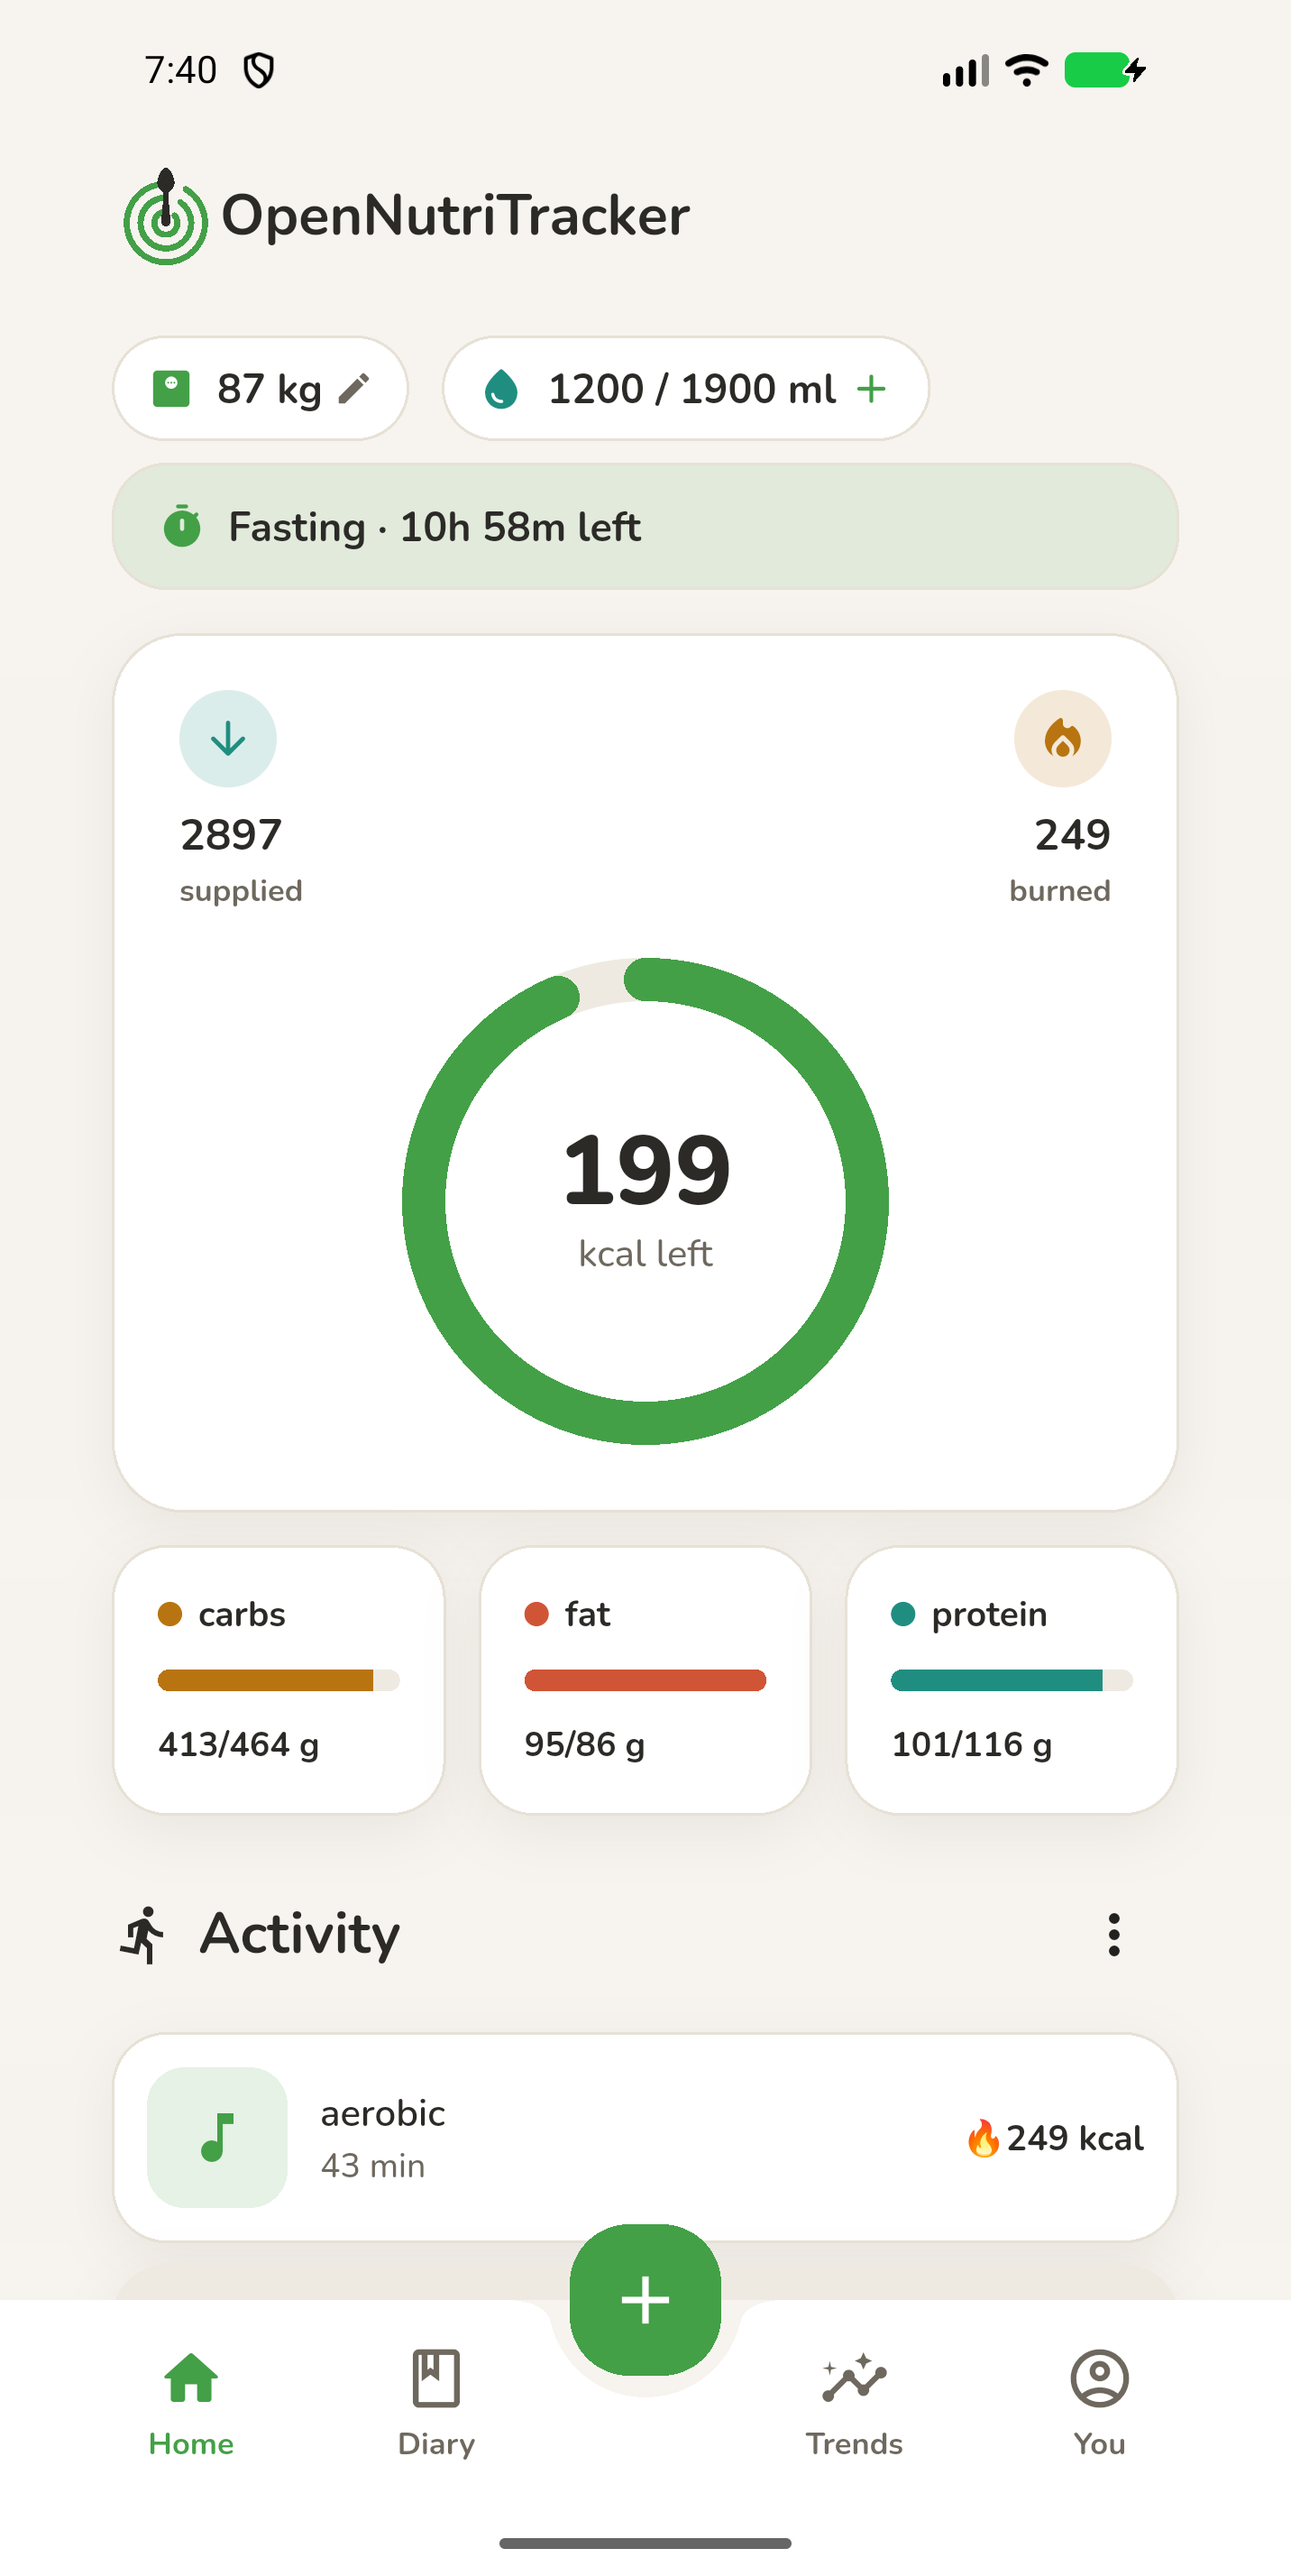
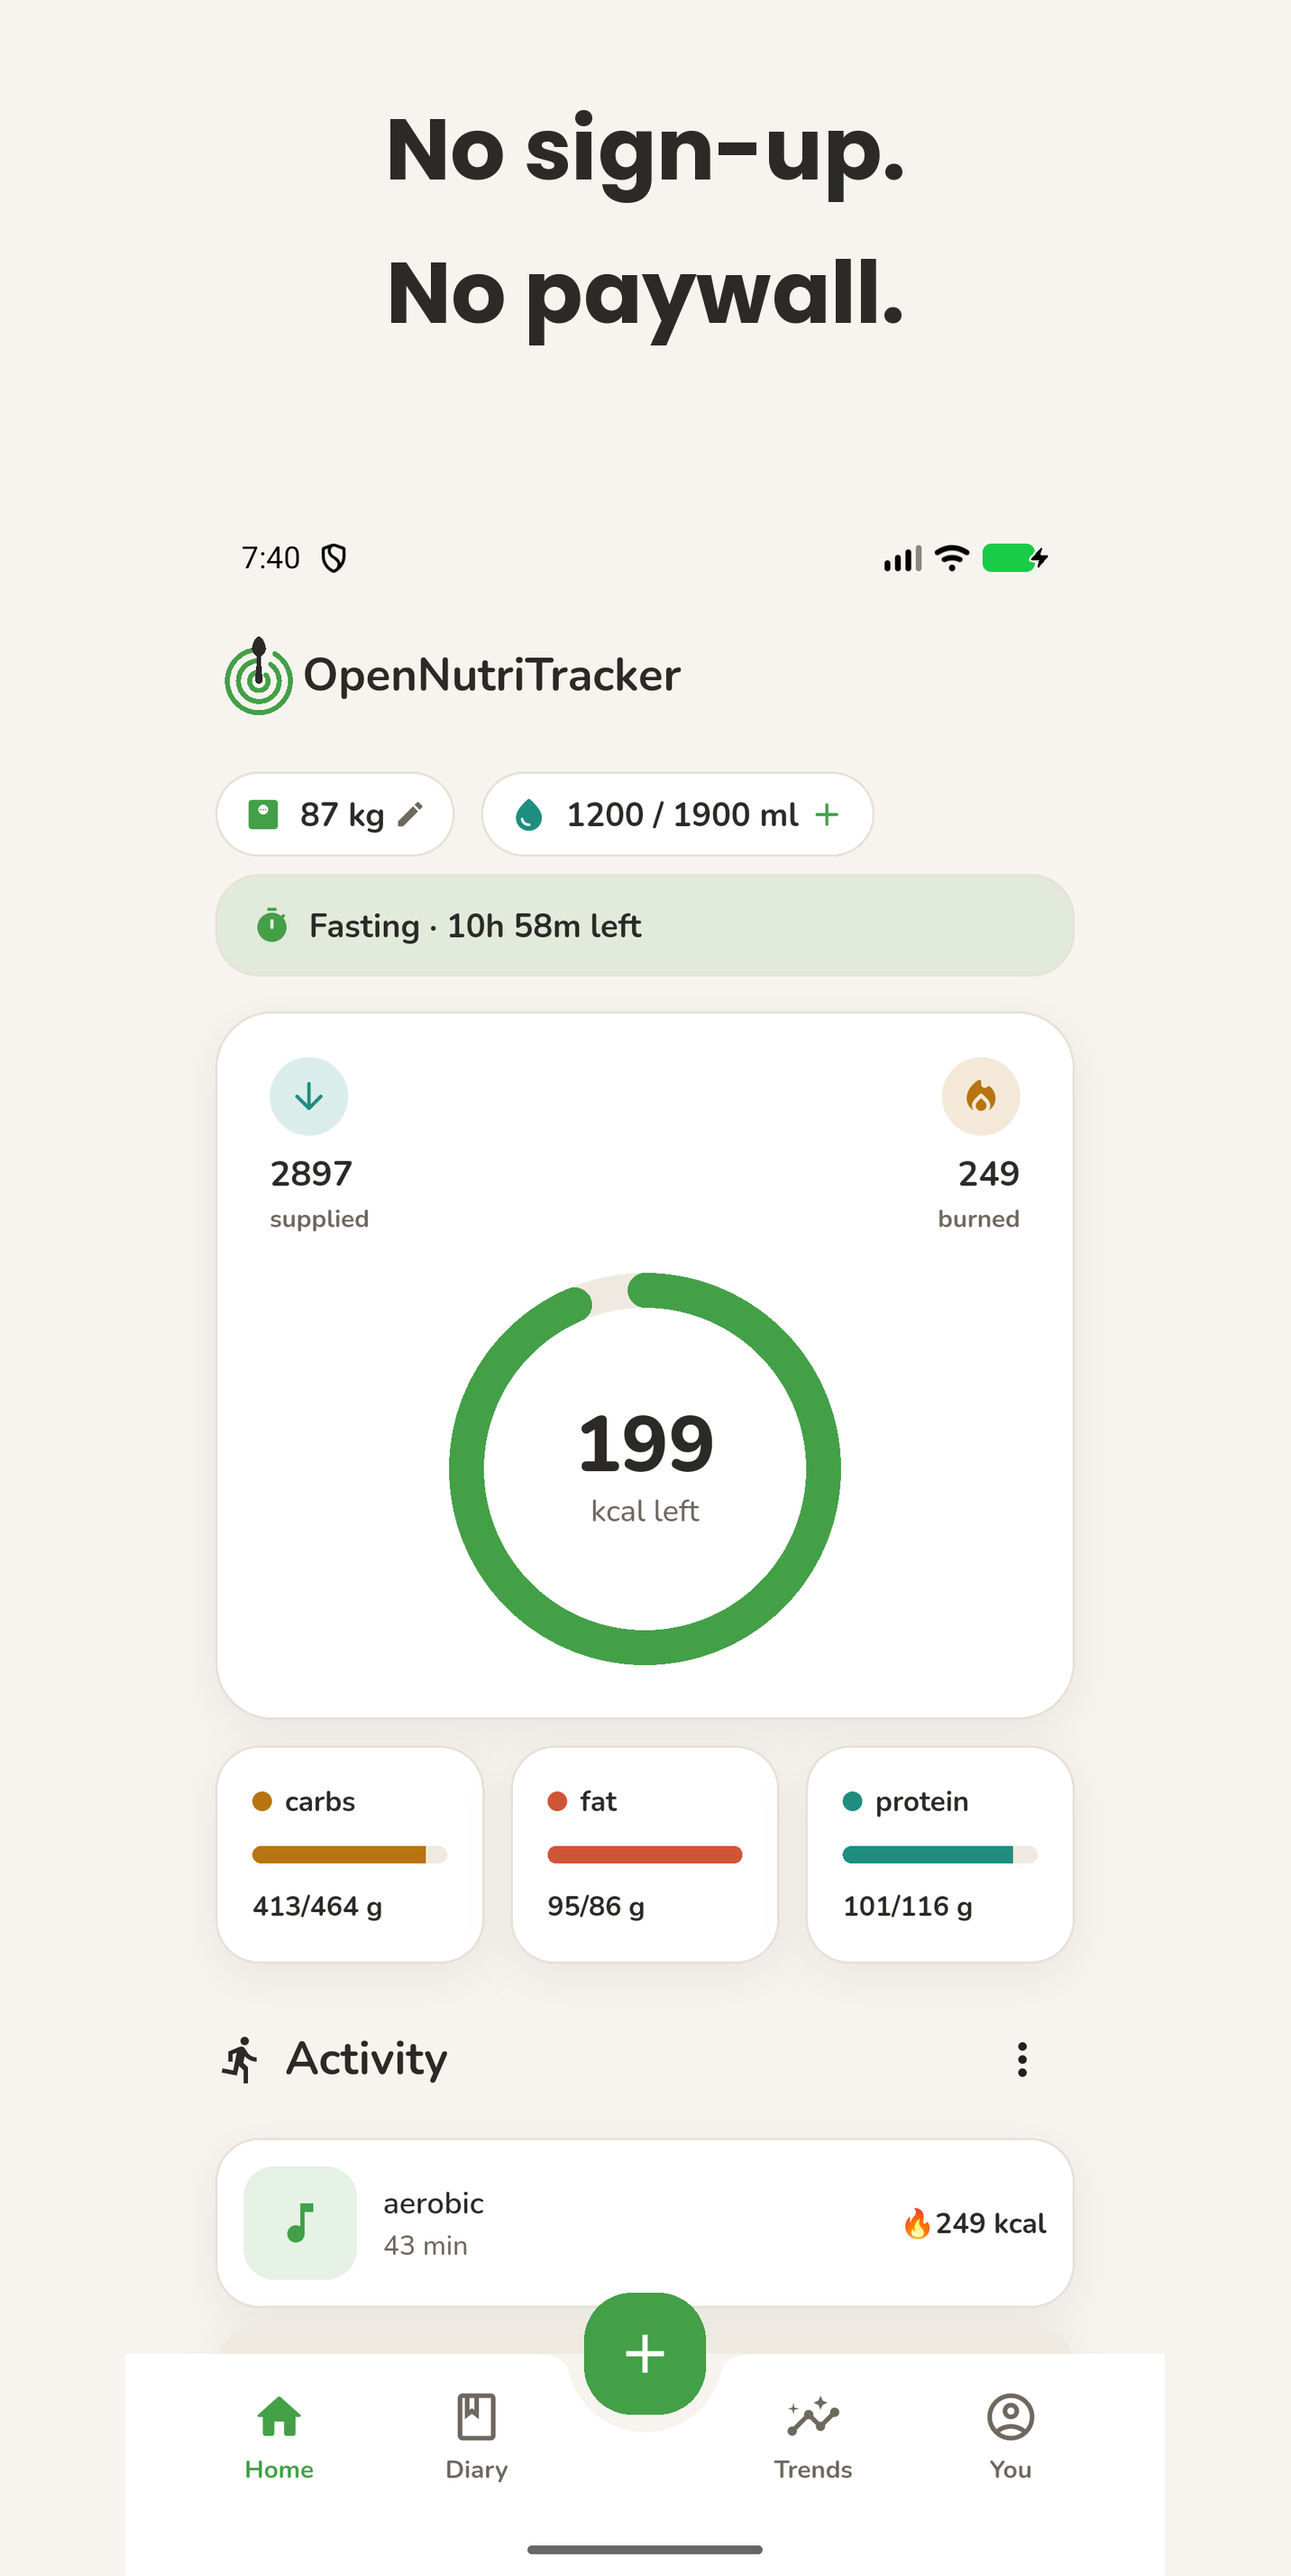
chore(store): caption the Play set, add the iOS screenshots, retire "Free forever" (#1120)
Retires the "Free forever. No account." hero caption, which restated the copy
rendered directly above the carousel on both stores and made an unfalsifiable
forward promise under Play's Misleading Claims policy. It is now
"No sign-up. No paywall.", and the App Store promotional text drops the same
phrase for claims that hold in the present tense.

Captions the Play phone set, which had been committed as raw captures — the
second pass described in compose.py's own docstring had never been run, so
#1072's decision was undone on Play. Same captures, no re-shoot.

Adds the App Store set: six at 1290x2796 and six at 2064x2752, captured with
`xcrun simctl io booted screenshot` because the CI lane still cannot get an
image off the simulator (#1076). Nine of twelve are final; the README records
the two owed re-shoots, the #1080 answer that a released version is read-only
so these need a build to ship, and the open question about the 6.9" slot.

Also, from review:

- rejects a too-wide word that arrives after a wrap (pre-existing)
- preserves the raw captures under tools/screenshots/raw/ and refuses to
  composite an output, or a directory onto itself — the in-place Play pass had
  left the raws reachable only through git history
- clears the committed sets before capture, so a single-device run cannot
  present the other device's committed set as its own output
- runs the Apple spec check on !cancelled(), so a partial run's assets are
[…]

diff --git a/tools/screenshots/compose.py b/tools/screenshots/compose.py
@@ -6,8 +6,14 @@ owned by either platform's lane:
 
   * the iOS lane feeds it fresh simulator captures at 1290x2796 (6.9" iPhone)
     and 2064x2752 (13" iPad);
-  * the Play set is already captured and committed at 1432x2856, so its
-    second pass is this script run over the existing PNGs — no re-shoot;
+  * the Play set is fed from tools/screenshots/raw/play at 1432x2856, so a
+    caption change is a re-render rather than a re-shoot;
+
+Inputs are always raw captures and outputs are always somewhere else. Pointing
+--raw at a directory this script has already written composites the caption a
+second time on top of the first and shrinks the app content again, and the
+result is a plausible-looking image rather than an error — so the marker below
+turns that mistake into a failure instead of a surprise.
   * Play's *tablet* slots stay empty by decision, and if that is ever
     revisited Play excludes non-core text there, which is what --no-captions
     is for.
@@ -32,10 +38,10 @@ Usage:
         --size  1290x2796 \\
         --captions tools/screenshots/captions.en-US.json
 
-    # Play's second pass, over the set already in the repo:
+    # Play, from the preserved captures:
     python3 tools/screenshots/compose.py \\
-        --raw fastlane/metadata/android/en-US/images/phoneScreenshots \\
-        --out build/screenshots/play-captioned \\
+        --raw tools/screenshots/raw/play \\
+        --out fastlane/metadata/android/en-US/images/phoneScreenshots \\
         --size 1432x2856 \\
         --captions tools/screenshots/captions.en-US.json
 
@@ -50,7 +56,7 @@ import pathlib
 import sys
 
 try:
-    from PIL import Image, ImageDraw, ImageFont
+    from PIL import Image, ImageDraw, ImageFont, PngImagePlugin
 except ImportError:  # pragma: no cover - the message is the whole point
     sys.exit(
         "Pillow is not installed. `python3 -m pip install --upgrade pillow`, "
@@ -58,6 +64,14 @@ except ImportError:  # pragma: no cover - the message is the whole point
     )
 
 REPO_ROOT = pathlib.Path(__file__).resolve().parents[2]
+
+# Stamped into every output and refused on every input. A PNG text chunk is
+# the right home for it: both stores ignore ancillary chunks, it survives a
+# copy, and it does not touch a single pixel — so it cannot change what the
+# reviewer sees. Detecting a caption band by inspecting pixels would be a
+# heuristic; this is not.
+MARKER_KEY = "Software"
+MARKER = "tools/screenshots/compose.py"
 
 
 def parse_size(text: str) -> tuple[int, int]:
@@ -83,24 +97,43 @@ def wrap_to_lines(
     max_width: int,
     max_lines: int,
 ) -> list[str] | None:
-    """Greedy word wrap. Returns None when the text will not fit."""
-    words = text.split()
+    """Greedy word wrap. Returns None when the text will not fit.
+
+    A literal newline in the caption is an author-chosen break and is always
+    taken. Blank segments are dropped rather than rendered: a stray trailing
+    newline, or a doubled one, would otherwise spend a line of a two-line
+    band on nothing. Greedy wrapping optimises for filling the line, which is the
+    wrong objective for a two-clause caption: "No sign-up. No paywall." fills
+    line one as "No sign-up. No", stranding the second clause's "No" at the
+    end of the line and leaving "paywall." alone underneath. The break the
+    reader wants is the sentence boundary, and nothing in the metrics can
+    infer that -- so the caption file states it.
+    """
     lines: list[str] = []
-    current = ""
-    for word in words:
-        candidate = f"{current} {word}".strip()
-        if draw.textlength(candidate, font=font) <= max_width:
-            current = candidate
+    for segment in text.split("\n"):
+        words = segment.split()
+        if not words:
             continue
-        if not current:
-            # A single word wider than the band: no wrapping can save it.
-            return None
-        lines.append(current)
-        current = word
-        if len(lines) == max_lines:
-            return None
-    if current:
-        lines.append(current)
+        current = ""
+        for word in words:
+            candidate = f"{current} {word}".strip()
+            if draw.textlength(candidate, font=font) <= max_width:
+                current = candidate
+                continue
+            # `word` is about to start a line of its own, so it has to fit
+            # on one by itself. Guarding only the `not current` case tested
+            # that for the first word of a segment and no other: a too-wide
+            # word arriving after a wrap was assigned to `current` and
+            # appended unchecked, overflowing the band.
+            if draw.textlength(word, font=font) > max_width:
+                # A single word wider than the band: no wrapping can save it.
+                return None
+            lines.append(current)
+            current = word
+            if len(lines) == max_lines:
+                return None
+        if current:
+            lines.append(current)
     if len(lines) > max_lines:
         return None
     return lines
@@ -184,6 +217,15 @@ def compose_one(
             y += line_height
 
     with Image.open(capture_path) as raw:
+        if raw.info.get(MARKER_KEY) == MARKER:
+            sys.exit(
+                f"{capture_path} was written by this script, so it already "
+                "carries a caption band.\nCompositing it again would stack a "
+                "second caption on the first and shrink the app content "
+                "further.\nPoint --raw at the original captures instead: "
+                "tools/screenshots/raw/ for the committed sets, or "
+                "build/screenshots/raw/ for a fresh run of the capture lane."
+            )
         capture = raw.convert("RGB")
         available_height = height - band_height - gap
         scale = min(width / capture.width, available_height / capture.height)
@@ -199,7 +241,9 @@ def compose_one(
     )
 
     out_path.parent.mkdir(parents=True, exist_ok=True)
-    canvas.save(out_path, format="PNG")
+    info = PngImagePlugin.PngInfo()
+    info.add_text(MARKER_KEY, MARKER)
+    canvas.save(out_path, format="PNG", pnginfo=info)
     print(f"  {out_path.name:24s} {width}x{height}  caption={caption!r}")
 
 
@@ -220,6 +264,23 @@ def main() -> None:
         "text, so a tablet set would need this.",
     )
     args = parser.parse_args()
+
+    # The marker on each output catches a *second* pass over a composited
+    # directory. It cannot catch the first: point --out at the captures
+    # themselves and nothing carries the marker yet, so every raw is
+    # overwritten by its own composite and the marker only reports the
+    # damage on the next run, after the originals are gone. Equal
+    # directories are the one case where the guard arrives too late, so it
+    # is refused up front. Resolved, because "." and an absolute path to it
+    # are the same directory.
+    if args.raw.resolve() == args.out.resolve():
+        sys.exit(
+            f"--raw and --out are the same directory ({args.raw}).\n"
+            "Compositing in place would overwrite each capture with its own "
+            "captioned version and lose the original.\n"
+            "Write to the store's directory instead, and keep the captures "
+            "under tools/screenshots/raw/."
+        )
 
     captures = sorted(args.raw.glob("*.png"))
     if not captures:

diff --git a/fastlane/metadata/ios/en-US/screenshots/README.md b/fastlane/metadata/ios/en-US/screenshots/README.md
@@ -1,0 +1,59 @@
+# App Store screenshots — en-US
+
+Twelve captioned assets: six at 1290x2796 (6.9" iPhone) and six at 2064x2752
+(13" iPad), in the order #1072 specifies. Captions come from
+`tools/screenshots/captions.en-US.json` and are composited by
+`tools/screenshots/compose.py`, which is shared with the Play set.
+
+## Where these came from
+
+Captured by hand on a Mac with `xcrun simctl io booted screenshot`, not by
+`.github/workflows/ios-screenshots.yml`.
+
+That is not a preference. The CI lane cannot currently get an image off the
+simulator: it drives the app with `flutter test`, and `flutter test`
+uninstalls the app when it finishes, so iOS deletes the data container the
+capture was written into. Three dispatches confirmed it — the app was absent
+from `simctl listapps` while 131 unrelated containers survived, and every PNG
+left on the device belonged to the GeoServices cache. `simctl io` sidesteps
+the whole problem by writing host-side, which is why the manual route worked
+first time. Fixing the lane means converting it to `flutter drive` +
+`onScreenshot`; see #1076.
+
+## Two frames still owed
+
+- **`03-micronutrients`, both devices.** The card is scrolled to a position
+  where its own header is half-cut by the app bar. On iPhone that slices the
+  `Day | Week` segmented control through the middle of the glyphs; on iPad it
+  leaves two orphaned calendar rows with the month header gone. Both read as
+  a rendering fault rather than a scroll position.
+- **`04-trends`, iPhone only.** The caption is "See the pattern, not the
+  day", and the frame shows a Calories chart that is a flat zigzag along the
+  goal line with no axis labels — no pattern to see. The iPad frame of the
+  same screen scrolls far enough to reach the Weight chart, which has a real
+  curve. Scroll the iPhone capture to match, or change the caption.
+
+The other nine are good as they stand.
+
+## These cannot be uploaded yet
+
+App Store Connect will not accept them against v2.2.0. A released version is
+read-only: every field on the version page reports `disabled`, Save is
+disabled, and Media Manager renders no upload target at all. Screenshots need
+a version in "Prepare for Submission", and that version needs a build before
+it can be submitted — so the listing change ships with the next release
+rather than on its own. This is the answer to #1080.
+
+Play is not like this, which is easy to over-generalise from: a listing-only
+edit there went through to the live listing with no binary
+(`.github/workflows/play-screenshots.yml`).
+
+## One thing to confirm on an editable version
+
+The iPad set matches App Store Connect's **13" Display** slot exactly. The
+iPhone side is less certain: Media Manager for this app lists 6.5", 6.3",
+6.1", 5.5", 4.7", 4" and 3.5" and shows **no 6.9" slot** — checked twice,
+with no "6.9" anywhere in the page text — while 1290x2796 is Apple's 6.9"
+size. Older app records did accept 1290x2796 under the 6.5" slot, so this may
+be a non-issue, but it cannot be settled against a read-only page. Check it
+before assuming the iPhone set drops straight in.
